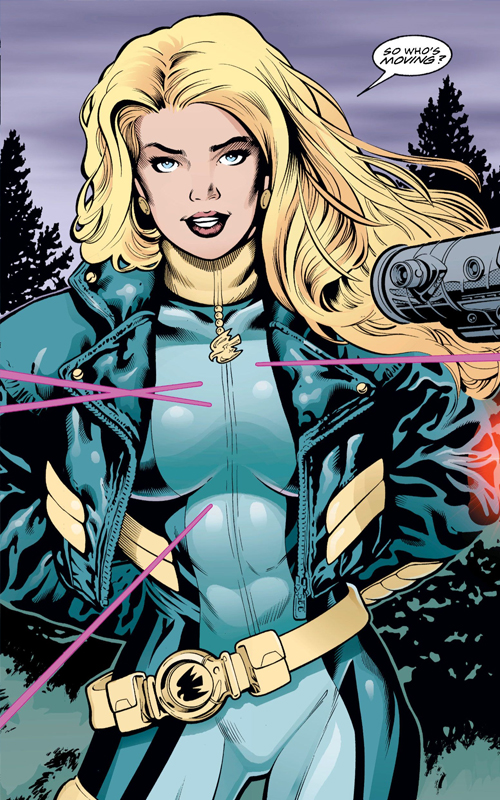
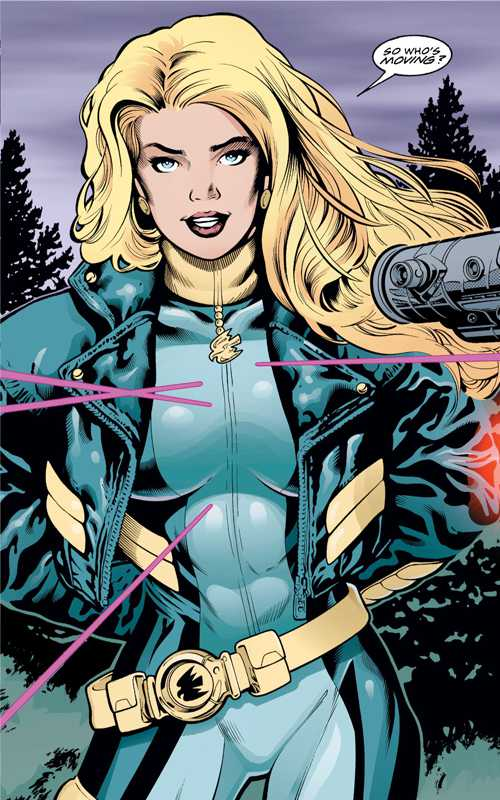
Imagenes optimizadas

diff --git a/src/router/AppRouter.jsx b/src/router/AppRouter.jsx
@@ -11,7 +11,7 @@ export const AppRouter = () => {
         <>
             <Routes>
 
-                <Route path="login/*" element={
+                <Route path="/login/*" element={
                     <PublicRoute >
                         {/* <LoginPage /> */}
                         <Routes>
